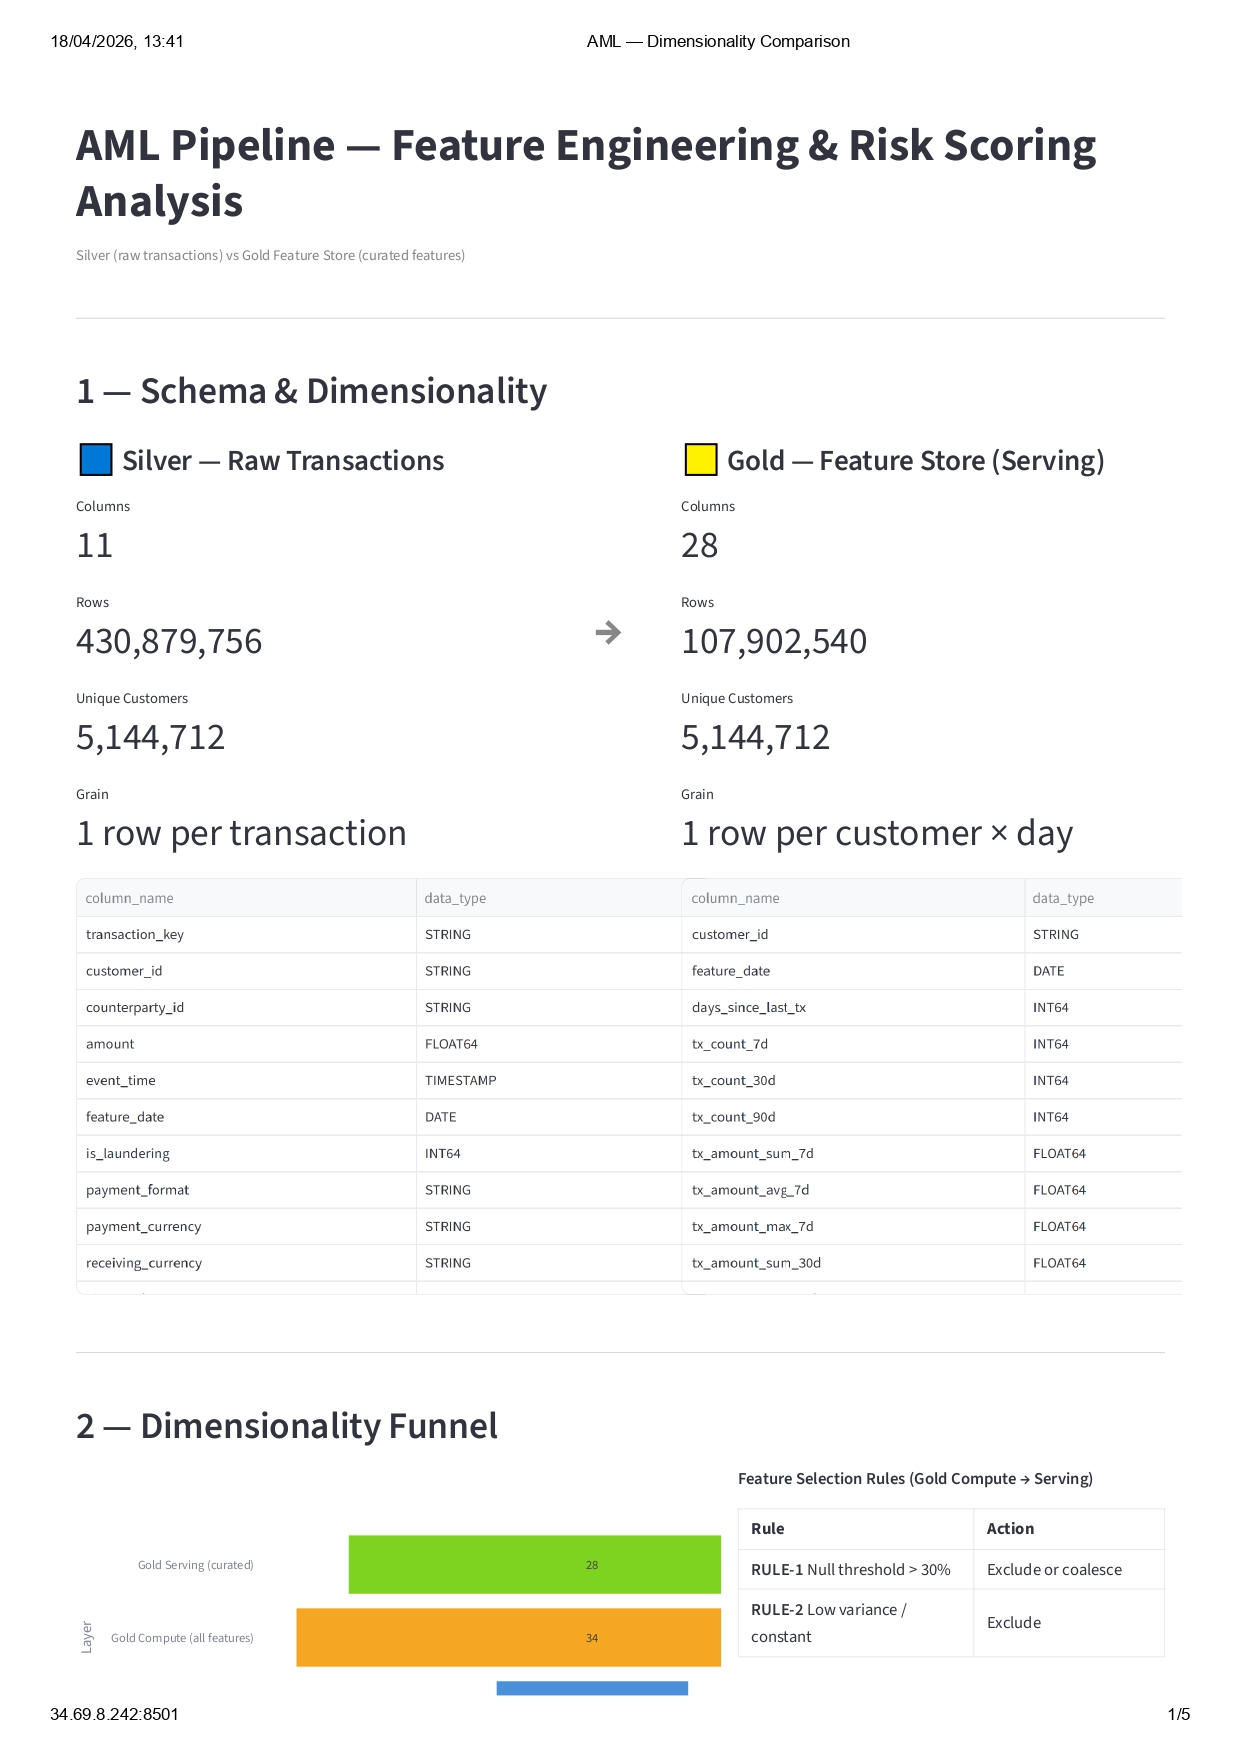
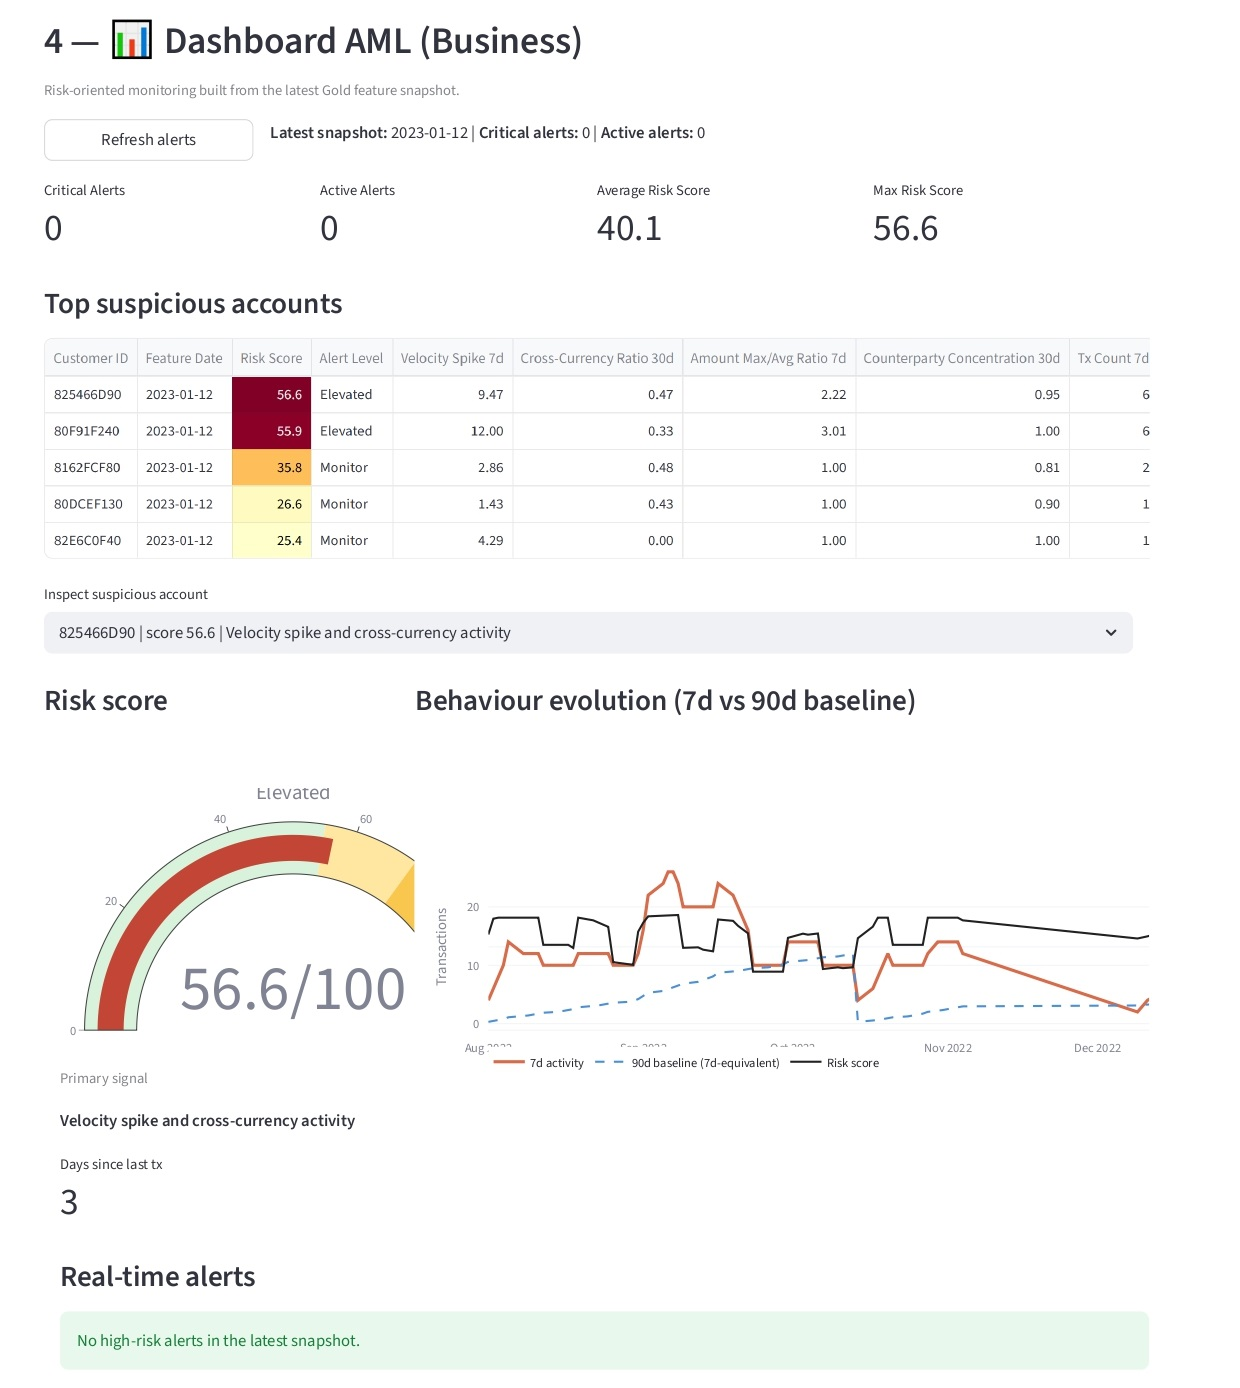
Align README with current dashboard images

diff --git a/README.md b/README.md
@@ -513,18 +513,6 @@ The current dashboard combines three perspectives in a single interface:
   <img src="images/dash02.jpg" alt="Dashboard — Row Count by Layer & Data Quality Null Rates" width="700"/>
 </p>
 
-<p align="center">
-  <img src="images/dash03.jpg" alt="Dashboard — Feature Correlation & Sample Data Preview" width="700"/>
-</p>
-
-<p align="center">
-  <img src="images/dash04.jpg" alt="Dashboard — AML business monitoring with risk score, suspicious accounts, and real-time alerts" width="700"/>
-</p>
-
-<p align="center">
-  <img src="images/dash05.jpg" alt="Dashboard — Incremental change footprint comparing recent Gold refreshes" width="700"/>
-</p>
-
 The views below are part of the full dashboard available at [http://34.69.8.242:8501](http://34.69.8.242:8501).
 
 #### 4 — 📊 Dashboard AML (Business)
